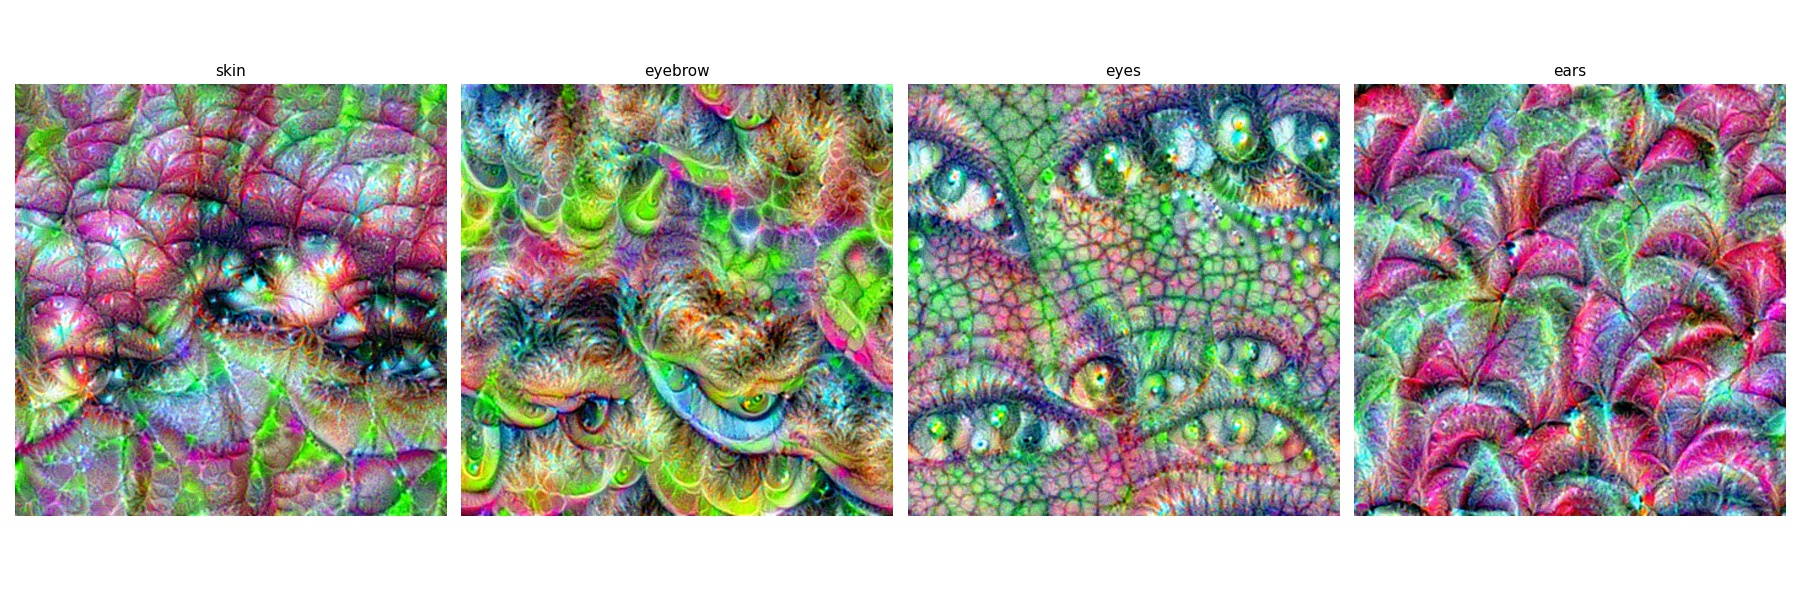
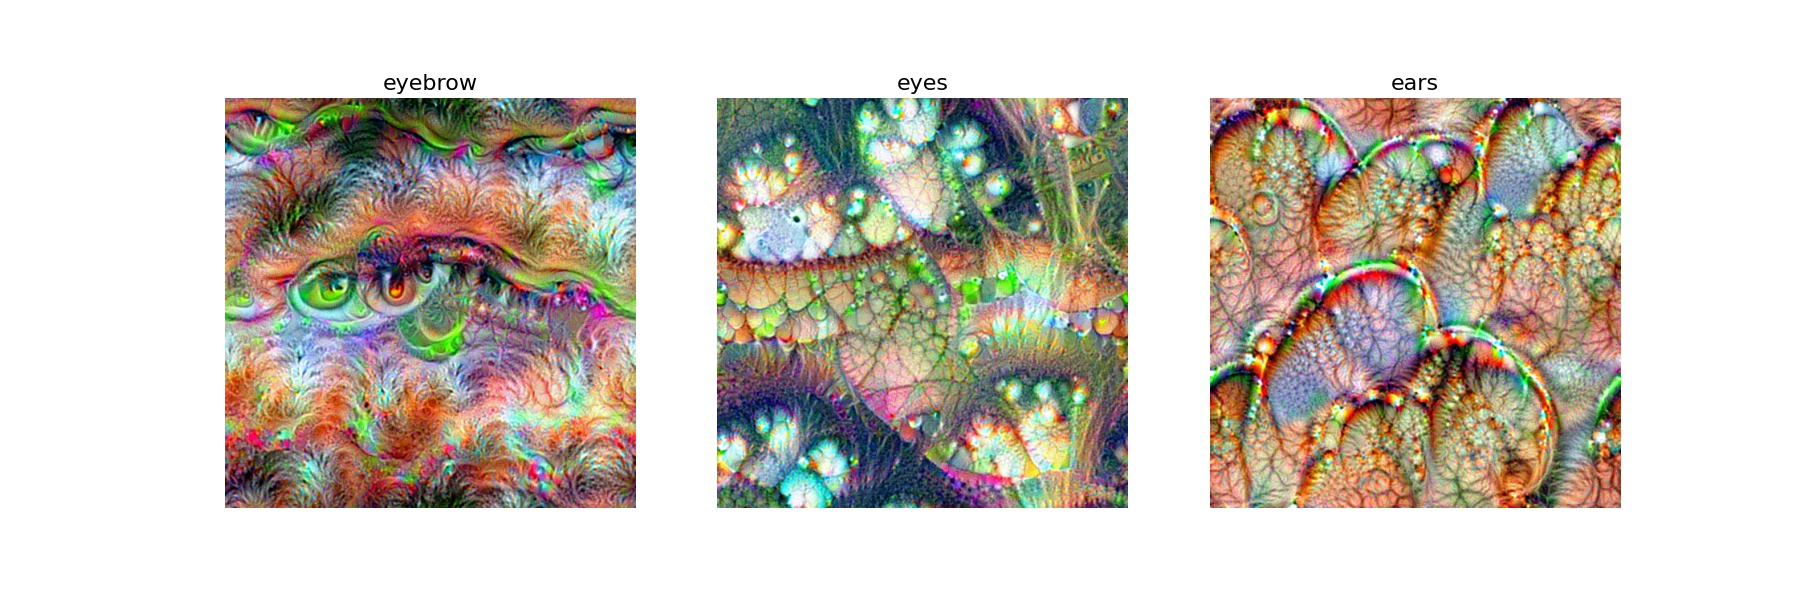
update classes

diff --git a/deconstruct.py b/deconstruct.py
@@ -20,10 +20,10 @@ layers_to_use = [
 config = {
     "image_path": "images/noise.jpg",
     "layers": layers_to_use,
-    "octave_scale": 1.1,  
-    "num_octaves": 25,  
-    "iterations": 20,  
-    "lr": 0.05,
+    "octave_scale": 1.2,  
+    "num_octaves": 15,  
+    "iterations": 100,  
+    "lr": 0.03,
     "max_rotation": 1.5,
     "gradient_smoothing_kernel_size": 3,  ## optional
     "gradient_smoothing_coeff": 0.5,       ## optional
@@ -42,9 +42,9 @@ for i in range(len(classnames_index)):
 fig, ax = plt.subplots(nrows= 1, ncols= len(classnames_index), figsize=(18, 6))
 for i in range(len(all_outs)):
     ax.flat[i].imshow(all_outs[i])
-    ax.flat[i].set_title(list(classnames_index)[i], fontsize = 11)
+    ax.flat[i].set_title(list(classnames_index)[i], fontsize = 16)
     ax.flat[i].axis("off")
 
 plt.show()
-fig.tight_layout()
+# fig.tight_layout()
 fig.savefig("images/vis.jpg")

diff --git a/core/classes.py b/core/classes.py
@@ -1,13 +1,13 @@
 classnames_index ={
     # "background": 0,
-    "skin": 1,
+    # "skin": 1,
     # "l_brow": 2,
-    "eyebrow": [2,3],
+    "eyebrow":3,
     # "l_eye": 4,
     "eyes": [4,5],
     # "eye_g": 6,
     # "l_ear": 7,
-    "ears": [7,8],
+    "ears":8,
     # "ear_r": 9,
     # "nose": 10,
     # "mouth": 11,
